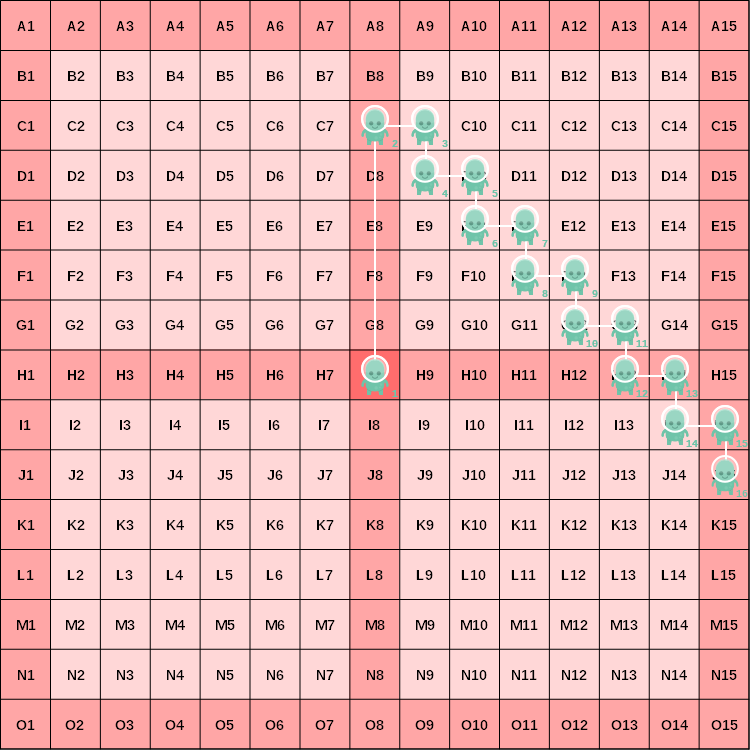
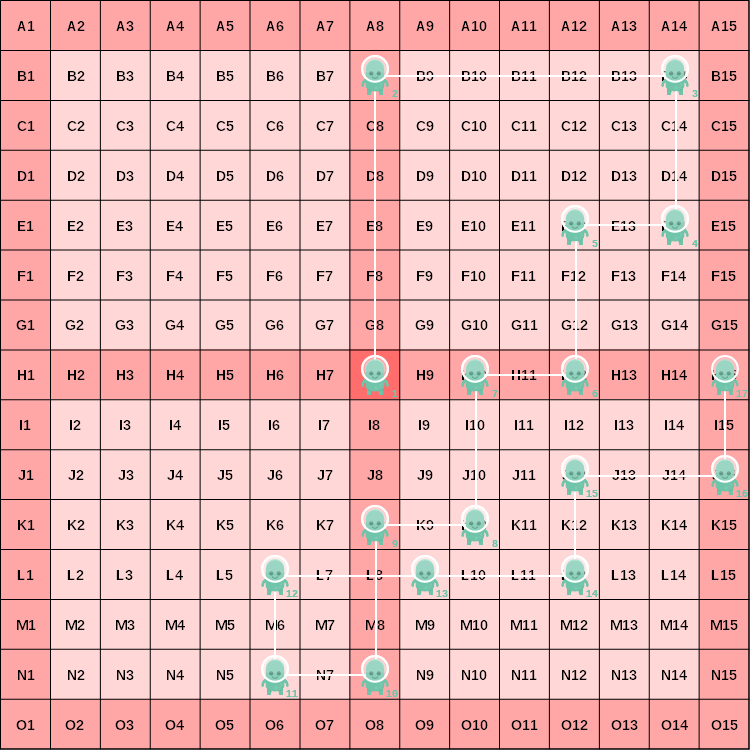
41

diff --git a/exercices/41.py b/exercices/41.py
@@ -1,9 +1,16 @@
 from libs.alien import *
 
-haut(5)
+a = 0
 
-while colonne() < 15 :
-    droite()
-    bas()
+haut(6)
+droite(6)
+while colonne() > 6 :
+    bas(3)
+    gauche(2)
+haut(2)
+droite(3)
+while colonne() < 14 :
+    droite(3)
+    haut(2)
 
 ss()
